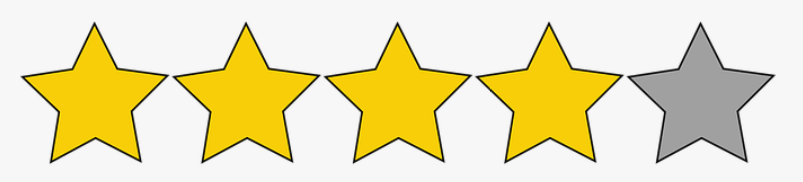
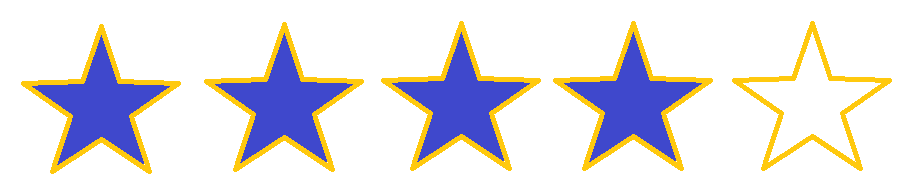
Migliorata la rating bar ed aggiunto il link per la pagina TripAdvisor

diff --git a/SignAdvisor/test.py b/SignAdvisor/test.py
@@ -1,10 +1,13 @@
 import cv2
 import numpy as np
 from matplotlib import pyplot as plt
+import webbrowser
 
 LINK = 'https://www.tripadvisor.it/Restaurant_Review-g187801-d10044689-Reviews-La_Prosciutteria_Bologna-Bologna_Province_of_Bologna_Emilia_Romagna.html'
-TEST = 1
-
+TEST = 0
+position = []
+height_sign = 0
+width_sign = 0
 def show_image(image):
     plt.imshow(cv2.cvtColor(image, cv2.COLOR_BGR2RGB))
     plt.show()
@@ -26,11 +29,11 @@ def find_query_in_train(good_matches, kp_query, kp_train, img_train, img_query):
         query_pts = np.float32([kp_query[m.queryIdx].pt for m in good_matches]).reshape(-1,1,2)
         train_pts = np.float32([kp_train[m.trainIdx].pt for m in good_matches]).reshape(-1,1,2)
         H, mask = cv2.findHomography(query_pts, train_pts, cv2.RANSAC, 5.0)
-        print(H)
+        #print(H)
         h,w,_ = img_query.shape
         points_to_project = np.float32([[0,0],[w-1,0],[w-1,h-1],[0,h-1]]).reshape(-1,1,2)
         projected_points = cv2.perspectiveTransform(points_to_project,H)
-
+        #print(projected_points)
         #img_train = cv2.polylines(img_train, [np.int32(projected_points)], True, [0,0,255],2,cv2.LINE_AA)
         return 0, projected_points
     else:
@@ -39,37 +42,67 @@ def find_query_in_train(good_matches, kp_query, kp_train, img_train, img_query):
 
 
 def add_rating(image, rating_value, sign_points):
+    height_sign = int(sign_points[3][0][1] - sign_points[0][0][1])
+    width_sign = int(sign_points[2][0][0] - sign_points[3][0][0])
 
+    # sign_points[0] = sign_points[3]
+    # sign_points[1] = sign_points[2]
+    # sign_points[3][0][1] = sign_points[3][0][1] + height_sign
+    # sign_points[2][0][1] = sign_points[2][0][1] + height_sign
+    # print(sign_points)
+    #test_img = image.copy()
+    #test_img = cv2.polylines(test_img,[np.int32(sign_points)],True,[0,0,255],2,cv2.LINE_AA)
+    #show_image(test_img)
     h_t,w_t, _ = image.shape
     img_rating = cv2.imread("../Rating/4.png")
-    show_image(img_rating)
+    #img_rating = cv2.resize(img_rating, (width_sign, height_sign), interpolation=cv2.INTER_AREA)
+    #show_image(img_rating)
     h, w, _ = img_rating.shape
     rating_points = np.float32([[0, 0], [w - 1, 0], [w - 1, h - 1], [0, h - 1]]).reshape(-1, 1, 2)
-
     pt = cv2.getPerspectiveTransform(rating_points, sign_points)
-
     final_image = cv2.warpPerspective(img_rating, pt, (w_t, h_t))
-    plt.imshow(final_image)
-    plt.show()
+    # plt.imshow(final_image)
+    # plt.show()
     white_mask = np.ones((h,w),dtype=np.uint8)*255
     warped_mask = cv2.warpPerspective(white_mask, pt, (w_t, h_t))
-    plt.imshow(warped_mask)
-    plt.show()
+    # plt.imshow(warped_mask)
+    # plt.show()
     warped_mask = np.equal(warped_mask, np.array([0]))
-    print(warped_mask)
     final_image[warped_mask] = image[warped_mask]
-    show_image(final_image)
+    prova = np.array([[255,255,255],
+                      [104,104,104],
+                      [112,112,112],
+                      [120,120,120],
+                      [128,128,128],
+                      [135,135,135],
+                      [143,143,143]], dtype=np.uint8)
+    for i in prova:
+        test_mask = np.all(final_image == i , axis=-1)
+        final_image[test_mask] = image[test_mask]
+
+    position = sign_points[3][0]
+    position = position.astype('int')
+    print("Position before translation {} , {} ".format(position, position[1]))
+    #p = (int(position[0] - width_sign/2), int(position[1] + height_sign/2))
+    p = (position[0], int(position[1] + height_sign/2))
+    print(p)
+
+    print("Position after translation {}".format(position))
+    font  = cv2.FONT_HERSHEY_SIMPLEX
+    cv2.putText(final_image, "Click Here for Info", p, font,0.5, (255,255,255), 1, cv2.LINE_AA)
+    #show_image(final_image)
+    return final_image, position, height_sign, width_sign
 #1. leggo immagine scatta dall'utente, in questo caso la carico manualmente
 #leggo anche l'immagine query
 
 img_train = cv2.imread("../Sign_test_photo/test_prosciutteria.jpg")
 img_query = cv2.imread("../Sign_ComputerVisionProject/la_prosciutteria2.png")
-
+final_image = []
 #img_query = cv2.cvtColor(img_q, cv2.COLOR_BGR2GRAY)
 #img_train = cv2.cvtColor(img_t, cv2.COLOR_BGR2GRAY)
 
 #img_train = cv2.GaussianBlur(img_train, (7,7), 1)
-if TEST :
+if TEST == 1:
     show_image(img_train)
     show_image(img_query)
     #show_image_grayscale(img_train)
@@ -85,7 +118,7 @@ kp_query = sift.detect(img_query)
 
 #trovo i keypoints nell'immagine di test
 kp_train = sift.detect(img_train)
-if TEST:
+if TEST == 1:
     showKeyPoints(img_query, kp_query)
     showKeyPoints(img_train, kp_train)
 
@@ -112,8 +145,36 @@ code, projected_points = find_query_in_train(good_matches, kp_query,kp_train,img
 if code == -1:
     print("Error!")
 else:
-    add_rating(img_train, 4, projected_points)
+    final_image, position,height_sign,width_sign = add_rating(img_train, 4, projected_points)
     #show_image(img_train)
+
+def open_browser(coordinate):
+    h = range(position[1], position[1] + height_sign)
+    w = range(position[0], position[0] + width_sign)
+    if (coordinate[0][0] in w) & (coordinate[0][1] in h):
+        webbrowser.open(LINK, new=2)
+
+
+
+def capture_click(event, x, y, flags, params):
+    global coordinates
+    if event == cv2.EVENT_LBUTTONDOWN:
+        coordinates = [(x,y)]
+        open_browser(coordinates)
+
+
+cv2.namedWindow("image")
+cv2.setMouseCallback("image", capture_click)
+
+while True:
+    cv2.imshow("image", final_image)
+
+    key = cv2.waitKey(1)
+
+    if key == ord("q"):
+        break
+
+cv2.destroyAllWindows()
 
 
 
